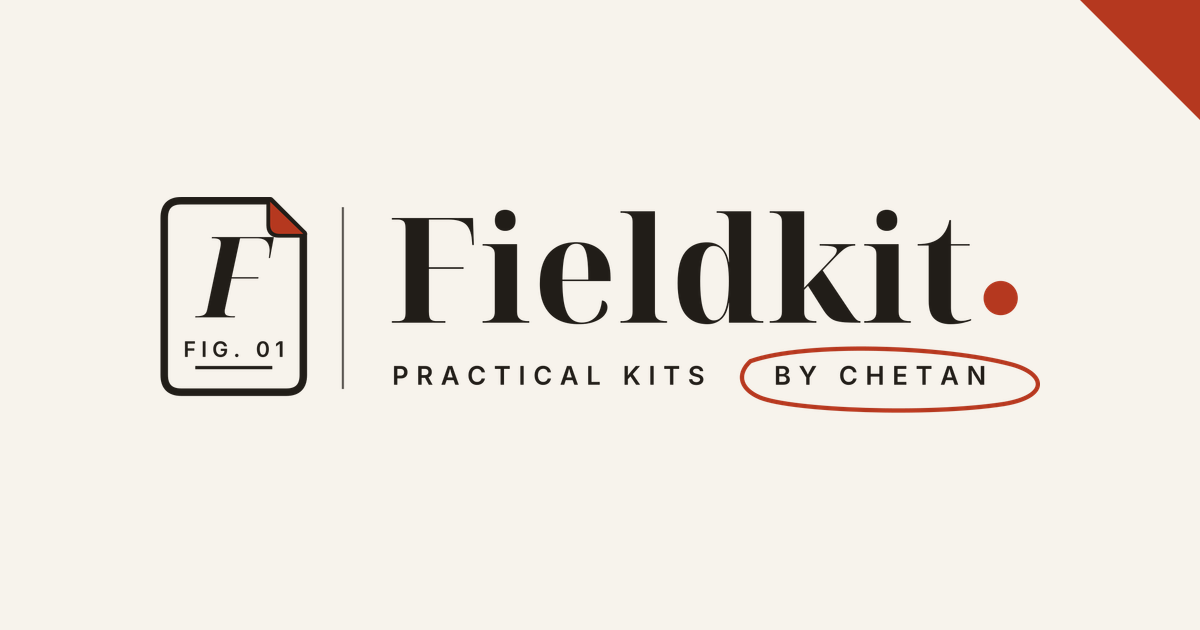
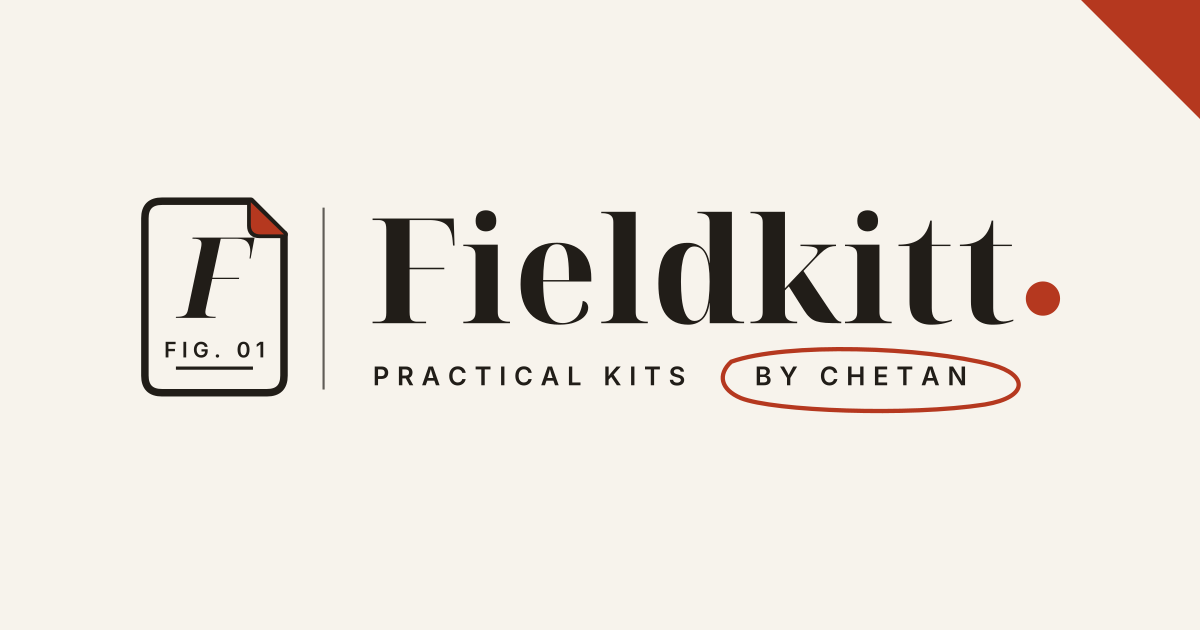
feat(brand): rename Fieldkit → Fieldkitt to match fieldkitt.xyz
- lib/brand.ts name "Fieldkitt" (tagline unchanged); titles, OG site name,
  JSON-LD brand, manifest, email sender, Razorpay modal name follow it
- Logos from the owner's Fieldkitt suite (02 transparent lockup): full, dark
  (ink swapped for paper; owner's 05 had an invisible plate), one-colour ink
- Header/footer logo: second t (first t shifted 57.4) and dot moved, as in
  the owner's files; footer img width 146 for the new ratio
- public/brand/fieldkit-* renamed to fieldkitt-*; OG image rebuilt 1200x630
- F-plate icons unchanged (no wordmark); only their labels say Fieldkitt
- Cover template working copy with FIELDKITT in docs/brand/
- Tests, docs and a DECISIONS row; originals and past rows unchanged

Changed region(s): [[0.3083, 0.3317, 0.8942, 0.5127], [0.0925, 0.3016, 0.2775, 0.6333], [0.3083, 0.5429, 0.8633, 0.6635]]

diff --git a/components/layout/wordmark.tsx b/components/layout/wordmark.tsx
@@ -6,7 +6,7 @@ import { brand } from "@/lib/brand";
 import { cn } from "@/lib/utils";
 
 /*
- * Header/footer logo: the owner’s fieldkit-header.svg (public/brand/), inlined
+ * Header/footer logo: the owner’s fieldkitt-header.svg (public/brand/), inlined
  * so it costs no extra request (whole-number coordinates: 1 unit is 0.17px here). "FIG. 01" is left out (2px tall at this size).
  * Ink follows the text colour; the folded corner and dot use the --primary token.
  */
@@ -19,6 +19,8 @@ const monogram =
   "M56 137 56 136H58Q62 136 64 135Q66 134 67 130L79 72Q80 70 80 68Q80 65 78 64Q76 63 73 63H71L72 62H130L126 82H125Q125 80 125 78Q126 76 126 75Q126 70 123 67Q120 63 114 63H98L90 100H115L115 101H90L84 129Q84 130 84 131Q84 134 85 135Q87 136 91 136H93L93 137Z";
 const word =
   "M240 139V138H246Q249 138 251 136Q253 135 253 129V52Q253 46 251 44Q249 43 246 43H240V41H316L316 66H315L315 62Q314 51 309 47Q304 43 293 43H274V87H307V89H274V129Q274 135 276 136Q278 138 281 138H290V139ZM346 53Q342 53 339 51Q336 48 336 43Q336 38 339 36Q342 34 346 34Q350 34 353 36Q355 38 355 43Q355 48 353 51Q350 53 346 53ZM325 139V138H326Q328 138 331 137Q333 136 334 135Q336 133 336 129V75Q336 72 334 70Q333 68 330 68Q328 67 326 67H325V66H357V129Q357 133 358 135Q360 136 362 137Q365 138 367 138H368V139ZM414 140Q397 140 387 130Q378 121 378 103Q378 83 387 74Q396 64 412 64Q427 64 436 72Q444 81 444 97V100H399Q399 121 404 130Q408 139 418 139Q425 139 430 134Q435 129 436 118Q439 119 440 121Q441 122 441 125Q441 129 438 132Q435 136 429 138Q423 140 414 140ZM423 99Q423 86 422 79Q421 72 419 68Q417 65 412 65Q405 65 402 73Q399 80 399 99ZM454 139V138H455Q457 138 459 137Q462 136 463 135Q465 133 465 129V45Q465 41 463 39Q462 37 459 37Q457 36 455 36H454V35H486V129Q486 133 487 135Q489 136 491 137Q494 138 495 138H497V139ZM535 140Q521 140 514 131Q507 122 507 102Q507 82 514 73Q521 64 534 64Q543 64 548 69Q553 73 555 83H555Q555 75 555 68Q555 62 555 58V45Q555 41 553 39Q552 37 549 37Q547 36 545 36H543V35H576V129Q576 133 577 135Q579 136 581 137Q583 138 585 138H587V139H555V120H555Q553 131 548 136Q543 140 535 140ZM541 137Q555 137 555 100Q555 67 540 67Q528 67 528 100Q528 137 541 137ZM593 139V138H595Q597 138 599 137Q601 136 603 135Q604 133 604 129V45Q604 41 603 39Q601 37 599 37Q597 36 595 36H593V35H625V94Q625 97 625 100Q625 103 625 106L652 79Q654 76 655 74Q656 73 656 71Q656 69 652 68Q648 67 640 67V66H673V67Q670 67 667 68Q665 68 662 71Q659 73 654 79L643 90L668 128Q672 134 674 136Q676 138 678 138H678V139H676Q668 139 663 139Q658 138 655 137Q651 136 648 134Q646 131 643 127L629 105L625 108V129Q625 133 627 135Q628 136 631 137Q633 138 635 138H637V139ZM702 53Q699 53 696 51Q693 48 693 43Q693 38 696 36Q699 34 702 34Q706 34 709 36Q712 38 712 43Q712 48 709 51Q706 53 702 53ZM681 139V138H683Q685 138 687 137Q690 136 691 135Q693 133 693 129V75Q693 72 691 70Q689 68 687 68Q685 67 683 67H681V66H714V129Q714 133 715 135Q717 136 719 137Q721 138 723 138H725V139ZM762 140Q753 140 747 136Q742 131 742 119V67H731V66Q745 66 752 60Q759 54 761 43H762V66H780V67H762V125Q762 131 765 134Q767 137 772 137Q776 137 781 136V137Q779 138 774 139Q769 140 762 140Z";
+/** The final "t" of Fieldkitt is the first t again, shifted right (as in the owner’s files). */
+const tee = word.slice(word.lastIndexOf("M762 140"));
 
 function Wordmark({ className }: { className?: string }) {
   return (
@@ -27,7 +29,7 @@ function Wordmark({ className }: { className?: string }) {
       translate="no"
       className={cn("inline-flex min-h-11 items-center text-foreground no-underline", className)}
     >
-      <svg viewBox="22 23 804 189" aria-hidden="true" focusable="false" className="h-8 w-auto">
+      <svg viewBox="22 23 862 189" aria-hidden="true" focusable="false" className="h-8 w-auto">
         <g
           fill="none"
           stroke="currentColor"
@@ -44,7 +46,8 @@ function Wordmark({ className }: { className?: string }) {
         {/* Lowered to sit level with the centred F now that "FIG. 01" is gone. */}
         <g transform="translate(0 24)">
           <path d={word} fill="currentColor" />
-          <circle cx={808.9} cy={116} r={16} className="fill-primary" />
+          <path d={tee} transform="translate(57.4 0)" fill="currentColor" />
+          <circle cx={866.3} cy={116} r={16} className="fill-primary" />
         </g>
       </svg>
       <span className="sr-only">{brand.name}, go to the home page</span>

diff --git a/components/layout/site-footer.tsx b/components/layout/site-footer.tsx
@@ -16,9 +16,9 @@ function SiteFooter() {
           <Link href="/" translate="no" className="inline-flex min-h-11 items-center">
             {/* eslint-disable-next-line @next/next/no-img-element -- a static SVG; next/image would add ~14 KB of JavaScript */}
             <img
-              src="/brand/fieldkit-header.svg"
+              src="/brand/fieldkitt-header.svg"
               alt={`${brand.name}, go to the home page`}
-              width={136}
+              width={146}
               height={32}
               loading="lazy"
               decoding="async"

diff --git a/lib/auth/auth.test.ts b/lib/auth/auth.test.ts
@@ -78,7 +78,7 @@ describe("access email", () => {
   });
 
   it("sends under the brand name, keeping the configured address", () => {
-    expect(senderFrom("MAKERS <onboarding@resend.dev>")).toBe("Fieldkit <onboarding@resend.dev>");
-    expect(senderFrom(" hello@mail.example ")).toBe("Fieldkit <hello@mail.example>");
+    expect(senderFrom("MAKERS <onboarding@resend.dev>")).toBe("Fieldkitt <onboarding@resend.dev>");
+    expect(senderFrom(" hello@mail.example ")).toBe("Fieldkitt <hello@mail.example>");
   });
 });

diff --git a/lib/email/send.tsx b/lib/email/send.tsx
@@ -18,7 +18,7 @@ export function isEmailConfigured() {
   return Boolean(process.env.RESEND_API_KEY && process.env.EMAIL_FROM);
 }
 
-/** Sender shown as "Fieldkit <address>": the name comes from lib/brand.ts, the address from EMAIL_FROM. */
+/** Sender shown as "Fieldkitt <address>": the name comes from lib/brand.ts, the address from EMAIL_FROM. */
 export function senderFrom(emailFrom: string) {
   const address = emailFrom.match(/<([^>]+)>/)?.[1] ?? emailFrom;
   return `${brand.name} <${address.trim()}>`;

diff --git a/lib/brand.ts b/lib/brand.ts
@@ -24,7 +24,7 @@ export type NavLink = { label: string; href: string };
 
 export const brand = {
   /** Brand locked 2026-11-18 (docs/DECISIONS.md). Logo files: public/brand/. */
-  name: "Fieldkit",
+  name: "Fieldkitt",
   tagline: "Practical kits by Chetan",
   ownerName: "Chetan",
   description:

diff --git a/docs/HANDOFF.md b/docs/HANDOFF.md
@@ -1,4 +1,4 @@
-# Handoff — Fieldkit
+# Handoff — Fieldkitt
 
 Last updated: 2026-11-17. Phases 0–1 are in `main`; Phase 2 is built on `phase-2-free-flow` (waiting for owner review and service setup). Read with `CLAUDE.md`, `docs/DECISIONS.md` and `docs/SKILLS_AND_TOOLS.md`.
 
@@ -199,7 +199,7 @@ Added 2026-11-18 at the owner's request, to see the shop working. Everything is 
   - `PasswordInput` on `/admin/login`. The login form, field name and POST are unchanged.
   - `FluidOrb` in the Home finder panel. It has a 2 KB still image underneath, and the live orb runs only on capable devices.
   - A footer credit, "Some interface pieces from Rare UI". **Keep it:** the licence requires it.
-- **Licence rule (Commons Clause):** never sell or bundle these components inside a Fieldkit product. Details: `components/rare-ui/README.md`.
+- **Licence rule (Commons Clause):** never sell or bundle these components inside a Fieldkitt product. Details: `components/rare-ui/README.md`.
 - **Motion clean-up:** every animation now uses only transforms and opacity, one curve, 150 ms for feedback and 250 ms for panels. Measured before and after (CPU slowed 4×) in `docs/MOTION_AUDIT.md`.
   - **Scrolling a product page on a phone:** 183 → 3 layouts and 359 → 15 paints. The cause was the progress ring.
   - **Card hover:** 52 → 6 paints.
@@ -215,33 +215,34 @@ Added 2026-11-18 at the owner's request, to see the shop working. Everything is 
 - **Production after merge:** status codes as before (pages 200, unknown page and design previews 404, `/admin` lands on `/admin/login`). Orb device cases, scroll and hover traces match localhost. Lighthouse: Home desktop median 97 (5 runs), phones 91–97, CLS 0. Details: `docs/MOTION_AUDIT.md`.
 - **Known, not new:** the product page's SEO score is 91. Next 16 streams the page description into the body, and Lighthouse looks for it in the head. Google reads it after rendering, but this is worth a look before launch.
 
-## 15. Brand — Fieldkit (merged into `main` 2026-11-18)
+## 15. Brand — Fieldkitt (merged into `main` 2026-11-18 as "Fieldkit")
 
+- **Renamed Fieldkit → Fieldkitt (2026-11-18, branch `rename-fieldkitt`)** to match the domain fieldkitt.xyz. The logos come from the owner's suite `fieldkitt-logo-suite/svg/` (02 transparent lockup; the header gets the same extra t and dot move: `translate(57.4 0)`, dot `cx 866.3`). The owner's `05-light-on-dark` was not used: its plate outline is ink on ink (invisible). F-plate icons are unchanged (no wordmark in them). A working cover template with "FIELDKITT" is at `docs/brand/product-cover-template.svg`; the original stays in `originals/`.
 - **One place for the brand:** `lib/brand.ts` holds the name, tagline, owner name, a `domain` placeholder (`null`) and `supportEmail` (`null`). Titles, Open Graph, the product JSON-LD `brand`, the manifest, the footer, the Razorpay modal name and the email sender name all read from it.
-- **Email sender:** `lib/email/send.tsx` sends as `Fieldkit <address>`. The address still comes from `EMAIL_FROM` (any display name in it is replaced), so no Vercel setting had to change.
+- **Email sender:** `lib/email/send.tsx` sends as `Fieldkitt <address>`. The address still comes from `EMAIL_FROM` (any display name in it is replaced), so no Vercel setting had to change.
 - **Logo files** (built from the owner's kit; originals in `docs/brand/originals/`, all under 100 KB, all in git):
 
-| File                                     | What it is                                                                             |
-| ---------------------------------------- | -------------------------------------------------------------------------------------- |
-| `components/layout/wordmark.tsx`         | Header/footer logo, inline SVG (plate + wordmark, no tagline, no "FIG. 01"), 32px tall |
-| `public/brand/fieldkit-header.svg`       | Same header lockup as a file                                                           |
-| `public/brand/fieldkit-logo.svg`         | Full lockup with "Practical kits by Chetan" and the hand-drawn circle (owner's file)   |
-| `public/brand/fieldkit-logo-dark.svg`    | Full lockup for dark backgrounds (owner's file)                                        |
-| `public/brand/fieldkit-logo-ink.svg`     | One-colour ink version (vermilion swapped for ink)                                     |
-| `public/brand/fieldkit-mark.svg`         | Mark only (owner's `favicon.svg`)                                                      |
-| `app/icon.svg`, `app/favicon.ico`        | Browser tab icon (SVG + 16/32/48 ICO)                                                  |
-| `app/apple-icon.png`, `public/icons/*`   | Home-screen icons (180, 192, 512, maskable 512 on paper) — used by `app/manifest.ts`   |
-| `app/opengraph-image.png` (+ `.alt.txt`) | 1200×630 share image; product pages without a cover fall back to it                    |
+| File                                     | What it is                                                                              |
+| ---------------------------------------- | --------------------------------------------------------------------------------------- |
+| `components/layout/wordmark.tsx`         | Header/footer logo, inline SVG (plate + wordmark, no tagline, no "FIG. 01"), 32px tall  |
+| `public/brand/fieldkitt-header.svg`      | Same header lockup as a file                                                            |
+| `public/brand/fieldkitt-logo.svg`        | Full lockup with "Practical kits by Chetan" and the hand-drawn circle (owner's 02 file) |
+| `public/brand/fieldkitt-logo-dark.svg`   | Full lockup for dark backgrounds (02 file, ink swapped for paper `#F5F0E7`)             |
+| `public/brand/fieldkitt-logo-ink.svg`    | One-colour ink version (vermilion swapped for ink)                                      |
+| `public/brand/fieldkitt-mark.svg`        | Mark only (owner's `favicon.svg`)                                                       |
+| `app/icon.svg`, `app/favicon.ico`        | Browser tab icon (SVG + 16/32/48 ICO)                                                   |
+| `app/apple-icon.png`, `public/icons/*`   | Home-screen icons (180, 192, 512, maskable 512 on paper) — used by `app/manifest.ts`    |
+| `app/opengraph-image.png` (+ `.alt.txt`) | 1200×630 share image; product pages without a cover fall back to it                     |
 
-- **To regenerate** after the owner changes a logo: replace the file in `public/brand/` (and, for the header, the path strings in `wordmark.tsx`). PNG icons were rendered from `fieldkit-mark.svg` with `sharp` (already installed).
+- **To regenerate** after the owner changes a logo: replace the file in `public/brand/` (and, for the header, the path strings in `wordmark.tsx`). PNG icons were rendered from `fieldkitt-mark.svg` with `sharp` (already installed). OG image recipe: 1200×630 paper `#F7F3EC`, vermilion triangle `M1081 0H1200V119Z`, full lockup rendered at ×1.07, artwork centred left-to-right with its top at y=197.
 - **Not changed on purpose:** code comments that say "MAKERS restyle" (not visible to customers), dated history in `docs/DECISIONS.md`, `docs/UI_AUDIT.md` and `docs/DESIGN_DIRECTIONS.md`.
 - **Rename later (owner, when ready):**
   1. GitHub repo `chetanpujari5105/Makers` (GitHub redirects the old URL; update the Vercel Git link if asked).
   2. Vercel project `makers` and the `makers-alpha.vercel.app` address → add the real domain (`docs/DOMAIN_AND_EMAIL.md`).
-  3. Resend: verify the domain, then set `EMAIL_FROM` to an address on it (the name "Fieldkit" is added automatically).
-  4. Razorpay dashboard business/display name and logo (the checkout modal title already says Fieldkit).
+  3. Resend: verify the domain, then set `EMAIL_FROM` to an address on it (the name "Fieldkitt" is added automatically).
+  4. Razorpay dashboard business/display name and logo (the checkout modal title already says Fieldkitt).
   5. Backblaze B2 bucket `makers-files` and its CORS origins (only when the domain changes — add the new origin, don't remove the old until switched).
   6. Neon `makers-db`, Upstash `makers-ratelimit`, `package.json` name, the local folder `~/Documents/MAKERS` — optional, cosmetic.
   7. Cookies `makers_session` / `makers_admin` — **leave alone** unless needed: renaming signs every buyer and the owner out.
-- **Still open:** trademark search for "Fieldkit" and domain availability. Legal pages remain placeholders that say they need owner review.
-- **Footer line:** "© Fieldkit — Practical kits by Chetan. Some interface pieces from Rare UI." — keep the Rare UI credit (licence).
+- **Still open:** trademark search for "Fieldkitt"; connecting the domain fieldkitt.xyz. Legal pages remain placeholders that say they need owner review.
+- **Footer line:** "© Fieldkitt — Practical kits by Chetan. Some interface pieces from Rare UI." — keep the Rare UI credit (licence).

diff --git a/docs/DECISIONS.md b/docs/DECISIONS.md
@@ -15,10 +15,11 @@ Every owner decision and every deviation from `PROJECT_SPEC.md` / `BUILD_PLAN.md
 | 2026-11-17 | Phase 0 approved; `phase-0-foundation` merged into `main` (fast-forward). Phase 1 not started.                                                                                                                                                                                                                                                                                                                                                                                                                                                                                                                                                                                           | Owner instruction.                                                                                                        |
 | 2026-11-17 | Phase 1 approved to start. Neon via **Route A** (GitHub → Vercel → Neon Marketplace). Product CTA shows **disabled “Opens soon”** until checkout exists. **“Explain it like I’m new” toggle skipped.**                                                                                                                                                                                                                                                                                                                                                                                                                                                                                   | Owner instruction (“go” message).                                                                                         |
 | 2026-11-18 | **Brand locked: "Fieldkit", tagline "Practical kits by Chetan"** (owner's logo and BRAND_COPY write "Practical Kits by Chetan"; the owner's instruction casing is used in text). Logos come from the owner's own SVG kit (originals in `docs/brand/originals/`), not redrawn. The header uses the owner's header lockup without the "FIG. 01" label (unreadable at 32px). The favicon/app icons use the owner's `favicon.svg` (block F, legible at 16px). The wordmark is the owner's outlined artwork, not Newsreader (checked side by side). Internal names (repo, package, Vercel project, env names, cookies) stay `makers` for now. **Trademark and domain checks are still open.** | Owner instruction (brand-fieldkit task).                                                                                  |
+| 2026-11-18 | **Brand renamed "Fieldkit" → "Fieldkitt"** (two t's, intentional). Tagline unchanged: "Practical kits by Chetan". Domain: fieldkitt.xyz. Logos come from the owner's Fieldkitt suite (same F plate, divider, tagline and letter outlines; the final t is the first t repeated). The dark logo is the owner's transparent lockup with ink swapped for paper, because the owner's dark file had an invisible plate outline. Internal names (repo, package, Vercel project, cookies) stay `makers`. **Trademark search for "Fieldkitt" is still open.**                                                                                                                                     | Owner decision: the name matches the domain.                                                                              |
 
 ## Still open (do not invent answers)
 
-Domain (and its availability check) · trademark check for "Fieldkit" · support email and sender domain · business status (individual or registered) and GST/invoicing · launch currency (default INR only, USD off) · refund policy wording · legal pages · first real products. See PROJECT_SPEC.md §19.
+Domain (and its availability check) · trademark check for "Fieldkitt" · support email and sender domain · business status (individual or registered) and GST/invoicing · launch currency (default INR only, USD off) · refund policy wording · legal pages · first real products. See PROJECT_SPEC.md §19.
 
 ## Deviations and technical choices
 

diff --git a/CLAUDE.md b/CLAUDE.md
@@ -13,7 +13,7 @@
 - **Phase 4** (merged 2026-11-18): owner admin for products, orders (+ resend receipt), customers, leads + CSV, coupons, reviews, updates and an audit log. Its migration is on production Neon `main`. Walkthrough on localhost + development DB passed; 5 bugs fixed with tests (see `docs/HANDOFF.md` §11 item 12).
 - **UI polish** (**merged into `main` 2026-11-18**, merge commit `67f7a86`; production verified): owner picked direction A "Field Notes" (warm paper, vermilion, Newsreader + Schibsted Grotesk, figure-plate covers). Layout shift and font weight fixed. Design and motion rules: `docs/DESIGN.md`; results: `docs/UI_AUDIT.md` §5; `docs/HANDOFF.md` §13.
 - **Rare UI + smooth motion** (**merged into `main` 2026-11-18**, merge commit `138017c`; production verified): 5 adapted components in `components/rare-ui/` (licence: footer credit link required; never resell them in a product — Commons Clause; see its README). Motion is transform/opacity only, one curve, 150/250 ms: `docs/MOTION_AUDIT.md`. Never let `shadcn add` overwrite `lib/utils.ts`. `docs/HANDOFF.md` §14.
-- **Brand Fieldkit** (**merged into `main` 2026-11-18**, owner said "merge"): name/tagline/owner in `lib/brand.ts`; inline header logo `components/layout/wordmark.tsx`; icons, OG image, manifest in `app/`; logo files `public/brand/`; owner originals `docs/brand/originals/`. Trademark and domain checks still open. See `docs/HANDOFF.md` §15.
+- **Brand Fieldkitt** (first merged as "Fieldkit" 2026-11-18; **renamed to Fieldkitt on branch `rename-fieldkitt`, not merged — waiting for the owner's "merge"**; matches the domain fieldkitt.xyz): name/tagline/owner in `lib/brand.ts`; inline header logo `components/layout/wordmark.tsx`; icons, OG image, manifest in `app/`; logo files `public/brand/`; owner originals `docs/brand/originals/`. Trademark and domain checks still open. See `docs/HANDOFF.md` §15.
 - **Not built (by design):** live payments (live mode not approved), bundle editing/purchases, USD prices, MDX guide loader, newsletter. No Razorpay webhook is registered yet (owner: not until live mode).
 - **Read before working:** `docs/HANDOFF.md` (map, commands, conventions, tokens), `docs/DECISIONS.md` (owner decisions + deviations), `docs/SKILLS_AND_TOOLS.md` (which skills to use per phase).
 - **Next.js 16 warning:** APIs differ from older tutorials (e.g. `error.tsx` receives `retry`, Cache Components are on, `dynamicParams` is unavailable). Check `node_modules/next/dist/docs/` before writing Next.js code (see `AGENTS.md`).
@@ -24,7 +24,7 @@
 
 ---
 
-You are building a production-minded, single-owner digital product storefront called **Fieldkit** — "Practical kits by Chetan" (brand locked 2026-11-18; repo, package and Vercel project are still named `makers`). The owner is a creator, not a senior engineer. Make decisions carefully, explain technical terms in plain English, and give exact terminal commands.
+You are building a production-minded, single-owner digital product storefront called **Fieldkitt** — "Practical kits by Chetan" (brand locked 2026-11-18, renamed from "Fieldkit" the same day to match fieldkitt.xyz; repo, package and Vercel project are still named `makers`). The owner is a creator, not a senior engineer. Make decisions carefully, explain technical terms in plain English, and give exact terminal commands.
 
 ## 1. Source of truth
 

diff --git a/README.md b/README.md
@@ -1,6 +1,6 @@
-# Fieldkit
+# Fieldkitt
 
-A single-owner store for practical digital resources — guides, templates, courses and project files — where every product comes with clear, step-by-step help. **Brand: Fieldkit — Practical kits by Chetan** (set in `lib/brand.ts`). The repo, package and Vercel project are still named `makers`.
+A single-owner store for practical digital resources — guides, templates, courses and project files — where every product comes with clear, step-by-step help. **Brand: Fieldkitt — Practical kits by Chetan** (set in `lib/brand.ts`). The repo, package and Vercel project are still named `makers`.
 
 > **Where things stand:** Phase 0 (the foundation) is built. The site runs and looks like a store, but there is **no database, no products, no payments and no downloads yet**. Those arrive in Phases 1–4. See `BUILD_PLAN.md`.
 
@@ -153,7 +153,7 @@ _Alternative, Cloudflare R2:_ turning on R2 requires an "R2 subscription" with a
 **Resend (email)**
 
 1. Sign up on the free plan and create an API key with "Sending access" → `RESEND_API_KEY`.
-2. Until you verify a domain, use `EMAIL_FROM="onboarding@resend.dev"` (emails show the sender name "Fieldkit" from `lib/brand.ts`). It only delivers to your own Resend email.
+2. Until you verify a domain, use `EMAIL_FROM="onboarding@resend.dev"` (emails show the sender name "Fieldkitt" from `lib/brand.ts`). It only delivers to your own Resend email.
 3. To email real buyers: Domains → add your domain → add the DNS records it shows → use an address on that domain.
 
 **Upstash Redis (rate limits).** Vercel → Storage → Create → Upstash for Redis → Free plan → connect to the `makers` project. It adds `KV_REST_API_URL` and `KV_REST_API_TOKEN` automatically; the code reads either name.

diff --git a/PROJECT_SPEC.md b/PROJECT_SPEC.md
@@ -1,4 +1,4 @@
-# PROJECT SPECIFICATION — Fieldkit Digital Resource Store (working name was MAKERS)
+# PROJECT SPECIFICATION — Fieldkitt Digital Resource Store (working name was MAKERS)
 
 > **Instruction to Claude Code:** Read this entire document before writing application code. Follow `CLAUDE.md` and `BUILD_PLAN.md`. Build one phase at a time, run the checks, and stop for owner review after each phase.
 >
@@ -76,7 +76,7 @@ Neon is the database, not the file-download service.
 
 ### 0.5 Working brand
 
-**Update 2026-11-18: the brand is Fieldkit ("Practical kits by Chetan"), see `docs/DECISIONS.md`.** Originally: use **MAKERS** as a temporary name in code and sample UI. Keep the site name, logo, accent colour, support email and footer details in a central brand/config file or database settings so the owner can change them later. Do not make brand name changes require editing many components.
+**Update 2026-11-18: the brand is Fieldkitt ("Practical kits by Chetan"), see `docs/DECISIONS.md`.** Originally: use **MAKERS** as a temporary name in code and sample UI. Keep the site name, logo, accent colour, support email and footer details in a central brand/config file or database settings so the owner can change them later. Do not make brand name changes require editing many components.
 
 Brand decisions still needed before public launch:
 

diff --git a/docs/DOMAIN_AND_EMAIL.md b/docs/DOMAIN_AND_EMAIL.md
@@ -40,7 +40,7 @@ Buying a domain needs your card and acceptance of the registrar's terms, so **yo
    - Some DNS hosts add your domain to the end of names and values automatically. If verification fails, remove the duplicated domain part.
    - If a record already exists at the same name (for example an SPF record), merge the values instead of adding a second one.
 5. Press **Verify**. It usually passes within 15 minutes; after 72 hours, use **Restart verification**.
-6. Create a sending-only API key if you want a new one. Then set `EMAIL_FROM` in Vercel for **Production** and **Preview**, for example `hello@mail.yourstore.com` (the code adds the display name "Fieldkit" from `lib/brand.ts`), and redeploy.
+6. Create a sending-only API key if you want a new one. Then set `EMAIL_FROM` in Vercel for **Production** and **Preview**, for example `hello@mail.yourstore.com` (the code adds the display name "Fieldkitt" from `lib/brand.ts`), and redeploy.
 7. Test: claim a free product with your own email, then with a friend's. Both should arrive.
 
 ## 4. Optional: a support inbox

diff --git a/docs/CLAUDE_CODE_START_PROMPT.md b/docs/CLAUDE_CODE_START_PROMPT.md
@@ -2,7 +2,7 @@
 
 Read `CLAUDE.md`, `PROJECT_SPEC.md`, `BUILD_PLAN.md` and `docs/ACCEPTANCE_TESTS.md` completely before doing anything.
 
-We are building **Fieldkit** (working name was MAKERS), a single-owner digital product store. This is not a multi-vendor marketplace. The approved stack is Next.js App Router + TypeScript, Tailwind + shadcn/ui, Vercel, Neon Postgres, Drizzle, Razorpay, Cloudflare R2, Resend and Upstash. The owner deploys through GitHub to Vercel. Use Neon for the database and R2 for private downloadable files.
+We are building **Fieldkitt** (working name was MAKERS), a single-owner digital product store. This is not a multi-vendor marketplace. The approved stack is Next.js App Router + TypeScript, Tailwind + shadcn/ui, Vercel, Neon Postgres, Drizzle, Razorpay, Cloudflare R2, Resend and Upstash. The owner deploys through GitHub to Vercel. Use Neon for the database and R2 for private downloadable files.
 
 The buyer flow is important and must be implemented exactly:
 1. Visitor opens the home page or a product page.
